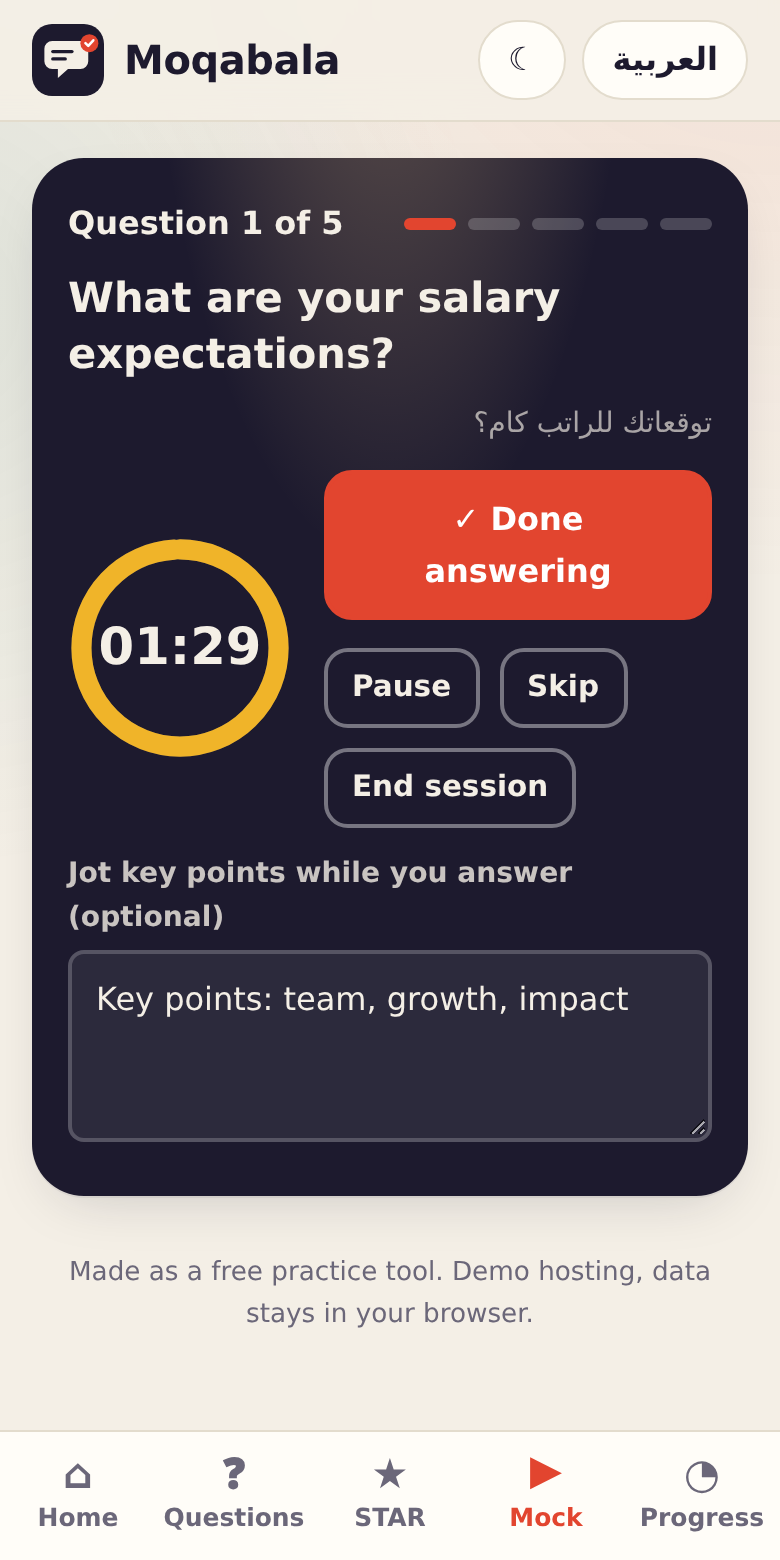
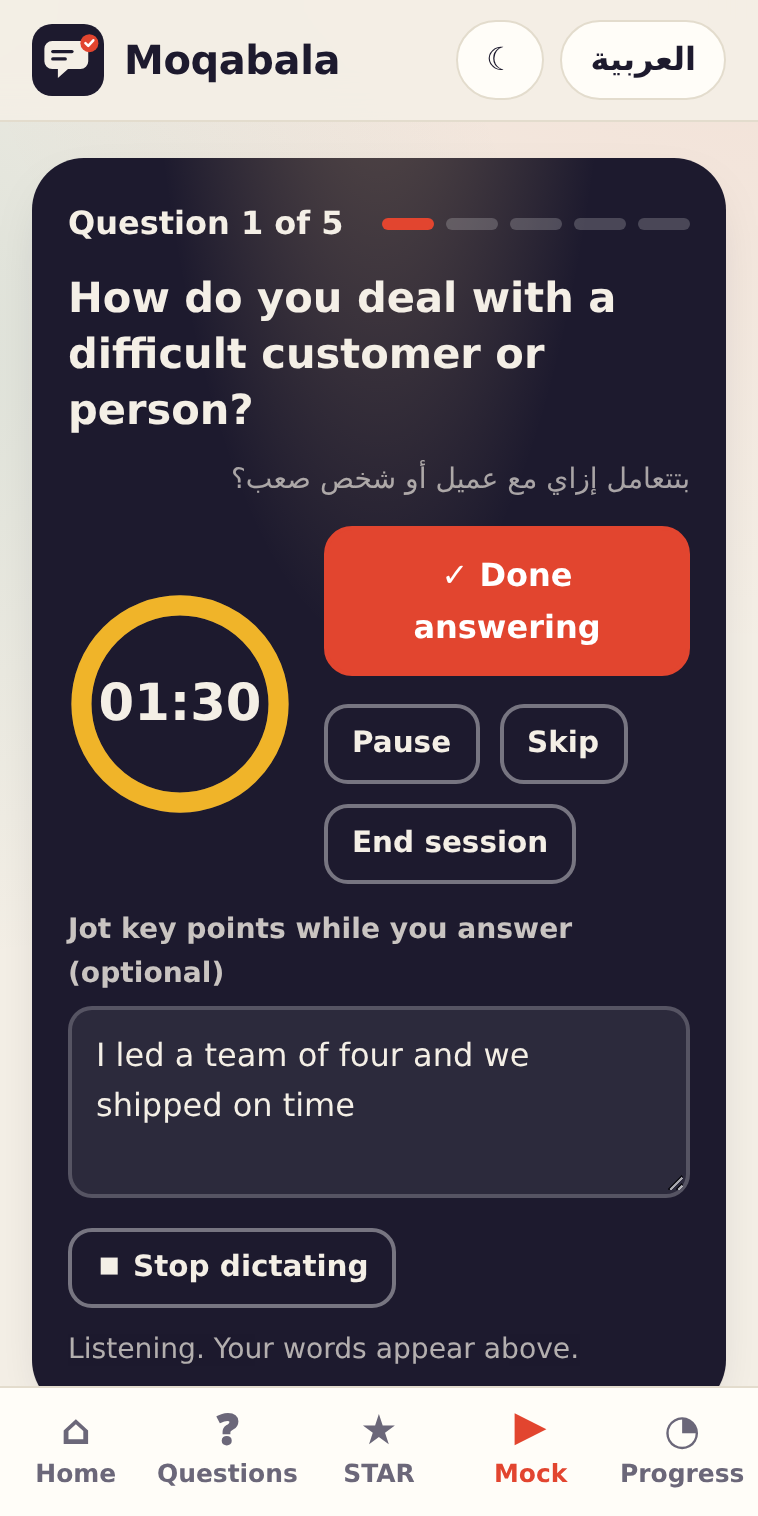
Optional dictation in the mock interview (Chrome/Edge speech recognition), tests, README

diff --git a/js/app.js b/js/app.js
@@ -53,6 +53,7 @@
     }).join('');
   }
   function render() {
+    if (dict.rec && !(ui.run && ui.run.phase === 'answer' && !ui.run.finished)) stopDictate();
     applyShell();
     var r = route(), app = $('#app');
     if (r !== 'mock' && ui.run) stopRun();
@@ -250,7 +251,7 @@
       '<div class="stack grow">' + (r.phase === 'prep' ? '<button class="btn primary" data-act="startnow">' + esc(t('start_now')) + '</button>' :
         '<button class="btn primary" data-act="doneans">✓ ' + esc(t('done_ans')) + '</button>') +
       '<div class="row"><button class="btn sm" data-act="pause">' + esc(r.paused ? t('resume') : t('pause')) + '</button><button class="btn sm" data-act="skipq">' + esc(t('skip')) + '</button><button class="btn sm" data-act="quit">' + esc(t('quit')) + '</button></div></div></div>' +
-      (r.phase === 'answer' ? '<label for="live" class="small" style="opacity:.8">' + esc(t('notes_live')) + '</label><textarea id="live">' + esc(it.note) + '</textarea>' : '') + '</section>';
+      (r.phase === 'answer' ? '<label for="live" class="small" style="opacity:.8">' + esc(t('notes_live')) + '</label><textarea id="live">' + esc(it.note) + '</textarea>' + (SR ? '<div class="row" style="margin-top:8px"><button class="btn sm" data-act="dictate" id="dictbtn" aria-pressed="' + !!dict.rec + '">' + (dict.rec ? '⏹ ' + esc(t('dict_stop')) : '🎤 ' + esc(t('dict_start'))) + '</button><span class="small" id="dictst" style="opacity:.7">' + esc(dict.rec ? t('dict_on') : t('dict_hint')) + '</span></div>' : '') : '') + '</section>';
   }
   function finishRun() {
     var r = ui.run, today = L.dayKey();
@@ -319,7 +320,8 @@
       case 'set': ui.mock[el.dataset.k] = Number(el.dataset.v); render(); break;
       case 'mstart': if (poolSize()) startRun(); break;
       case 'startnow': r.left = 0; r.deadline = 0; r.startedAt = Date.now(); r.phase = 'answer'; r.total = r.limit; r.left = r.limit; r.deadline = Date.now() + r.limit * 1000; render(); break;
-      case 'doneans': saveLive(); toRate(Math.min(r.limit, Math.round(r.limit - r.left))); break;
+      case 'dictate': if (dict.rec) stopDictate(); else startDictate(); render(); break;
+      case 'doneans': stopDictate(); saveLive(); toRate(Math.min(r.limit, Math.round(r.limit - r.left))); break;
       case 'pause': saveLive(); if (r.paused) { r.deadline = Date.now() + r.left * 1000; r.paused = false; } else { r.left = Math.max(0, Math.ceil((r.deadline - Date.now()) / 1000)); r.paused = true; } render(); break;
       case 'skipq': r.items[r.i].skipped = true; clearInterval(r.timer); advance(); break;
       case 'quit': if (confirm(t('confirm_quit'))) { stopRun(); render(); } break;
@@ -330,6 +332,22 @@
       case 'reset': if (confirm(t('confirm_reset'))) { var lang = S.lang; S = fresh(); S.lang = lang; save(); render(); } break;
     }
   });
+  /* optional dictation: the browser's speech recognition turns your spoken answer into the notes box, so words and fillers are counted on what you said */
+  var SR = typeof window !== 'undefined' && (window.SpeechRecognition || window.webkitSpeechRecognition);
+  var dict = { rec: null };
+  function stopDictate() { if (dict.rec) { var r = dict.rec; dict.rec = null; try { r.onend = null; r.stop(); } catch (e) { } } }
+  function startDictate() {
+    if (!SR || dict.rec) return;
+    var rec = new SR(); rec.lang = S.lang === 'ar' ? 'ar-EG' : 'en-US'; rec.continuous = true; rec.interimResults = false;
+    rec.onresult = function (ev) {
+      var ta = $('#live'); if (!ta || !ui.run) return; var add = '';
+      for (var k = ev.resultIndex; k < ev.results.length; k++) if (ev.results[k].isFinal) add += ev.results[k][0].transcript + ' ';
+      if (add) { ta.value = (ta.value ? ta.value.replace(/\s*$/, ' ') : '') + add.trim() + ' '; ui.run.items[ui.run.i].note = ta.value; }
+    };
+    rec.onerror = function (ev) { var st = $('#dictst'); if (st) st.textContent = ev.error === 'not-allowed' ? t('dict_denied') : t('dict_err'); if (ev.error === 'not-allowed' || ev.error === 'service-not-allowed') { dict.rec = null; var b = $('#dictbtn'); if (b) b.textContent = '🎤 ' + t('dict_start'); } };
+    rec.onend = function () { if (dict.rec === rec) { try { rec.start(); } catch (e) { dict.rec = null; } } };
+    dict.rec = rec; try { rec.start(); } catch (e) { dict.rec = null; }
+  }
   function saveLive() { var ta = $('#live'); if (ta && ui.run) ui.run.items[ui.run.i].note = ta.value; }
   function advance() {
     var r = ui.run; if (r.i >= r.items.length - 1) { finishRun(); return; }

diff --git a/tests/dictate.js b/tests/dictate.js
@@ -1,0 +1,34 @@
+/* Dictation check with a fake SpeechRecognition (the real one needs a microphone and Google's service).
+   Usage: node tests/dictate.js [baseUrl]   Needs puppeteer-core. */
+const path = require('path'), http = require('http'), fs = require('fs');
+const puppeteer = require(process.env.PUPPETEER_PATH || 'puppeteer-core');
+const sleep = (ms) => new Promise((r) => setTimeout(r, ms));
+function serve(dir) { return new Promise((res) => { const s = http.createServer((q, r) => { let f = path.join(dir, decodeURIComponent(q.url.split('?')[0])); if (f.endsWith('/')) f += 'index.html'; fs.readFile(f, (e, d) => { if (e) { r.statusCode = 404; r.end(); } else { r.setHeader('Content-Type', { '.html': 'text/html', '.js': 'text/javascript', '.css': 'text/css', '.svg': 'image/svg+xml', '.webmanifest': 'application/json' }[path.extname(f)] || 'application/octet-stream'); r.end(d); } }); }).listen(0, () => res(s)); }); }
+(async () => {
+  let srv, base = process.argv[2];
+  if (!base) { srv = await serve(path.join(__dirname, '..')); base = 'http://localhost:' + srv.address().port + '/'; }
+  const browser = await puppeteer.launch({ executablePath: process.env.CHROME || '/usr/bin/google-chrome', args: ['--no-sandbox'], headless: 'new' });
+  const p = await browser.newPage(); await p.setViewport({ width: 390, height: 844 });
+  const errors = []; p.on('pageerror', (e) => errors.push(e.message));
+  await p.evaluateOnNewDocument(() => {
+    window.__rec = null;
+    const Fake = function () { window.__rec = this; this.start = () => { this.started = true; }; this.stop = () => { this.started = false; }; };
+    window.webkitSpeechRecognition = Fake; window.SpeechRecognition = Fake;
+  });
+  let bad = 0; const ok = (c, n) => { console.log((c ? '  ok   ' : '  FAIL ') + n); if (!c) bad++; };
+  await p.goto(base + '#/mock'); await p.waitForSelector('[data-act=mstart]');
+  await p.evaluate(() => document.querySelector('[data-act=mstart]').click()); await sleep(300);
+  await p.evaluate(() => document.querySelector('[data-act=startnow]').click()); await sleep(300);
+  ok(await p.evaluate(() => !!document.getElementById('dictbtn')), 'dictate button shows when the browser supports speech recognition');
+  await p.evaluate(() => document.getElementById('dictbtn').click()); await sleep(200);
+  ok(await p.evaluate(() => window.__rec && window.__rec.started && window.__rec.lang === 'en-US'), 'recognition started in English');
+  await p.evaluate(() => { const e = { resultIndex: 0, results: [Object.assign([{ transcript: 'um I led the team' }], { isFinal: true })] }; window.__rec.onresult(e); });
+  const v = await p.evaluate(() => document.getElementById('live').value);
+  ok(/um I led the team/.test(v), 'spoken words land in the answer box: ' + v);
+  await p.evaluate(() => document.querySelector('[data-act=doneans]').click()); await sleep(300);
+  ok(await p.evaluate(() => window.__rec.started === false), 'dictation stops when the answer ends');
+  const t = await p.evaluate(() => document.body.innerText);
+  ok(/5 words/.test(t) && /1 filler/i.test(t.replace(/fillers/i, 'filler')) , 'word and filler count use the dictated text: ' + (t.match(/\d+ words[^\n]*/) || [''])[0]);
+  ok(errors.length === 0, 'no page errors ' + errors.join('|'));
+  await browser.close(); if (srv) srv.close(); console.log(bad ? bad + ' FAILED' : 'DICTATE PASS'); process.exit(bad ? 1 : 0);
+})();

diff --git a/js/i18n.js b/js/i18n.js
@@ -34,7 +34,7 @@
       m_start: 'Start', m_pool: 'questions available', m_none: 'No questions in the selected topics.',
       q_of: 'Question', of: 'of', get_ready: 'Get ready', start_now: 'Start now', time_left: 'left',
       pause: 'Pause', resume: 'Resume', done_ans: 'Done answering', skip: 'Skip', quit: 'End session', confirm_quit: 'End this session? Nothing will be saved.',
-      notes_live: 'Jot key points while you answer (optional)', time_up: 'Time is up', used: 'Time used',
+      notes_live: 'Jot key points while you answer (optional)', dict_start: 'Dictate my answer', dict_stop: 'Stop dictating', dict_on: 'Listening. Your words appear above.', dict_hint: 'Speak your answer and it is typed for you.', dict_denied: 'Microphone blocked. Allow it in the browser, or type.', dict_err: 'Could not hear you. Try again or type.', time_up: 'Time is up', used: 'Time used',
       rate_h: 'How did it go?', rate_p: 'Rate your answer', c_star: 'I told a clear story', c_num: 'I gave a specific example or number', c_short: 'I stayed within the time', c_conf: 'I sounded confident',
       next_q: 'Next question', finish: 'See results', fillers: 'filler words in notes',
       res_h: 'Session results', score: 'Score', avg_time: 'Average time used', answered: 'answered', skipped: 'skipped',
@@ -80,7 +80,7 @@
       m_start: 'ابدأ', m_pool: 'سؤال متاح', m_none: 'مفيش أسئلة في المواضيع المختارة.',
       q_of: 'سؤال', of: 'من', get_ready: 'استعد', start_now: 'ابدأ دلوقتي', time_left: 'متبقي',
       pause: 'إيقاف مؤقت', resume: 'كمّل', done_ans: 'خلصت إجابتي', skip: 'تخطّي', quit: 'إنهاء الجلسة', confirm_quit: 'تنهي الجلسة؟ مش هيتحفظ حاجة.',
-      notes_live: 'اكتب نقاط سريعة وإنت بتجاوب (اختياري)', time_up: 'الوقت خلص', used: 'الوقت المستخدم',
+      notes_live: 'اكتب نقاط سريعة وإنت بتجاوب (اختياري)', dict_start: 'اتكلم وأنا أكتب', dict_stop: 'وقّف الكتابة', dict_on: 'بسمعك. كلامك بيظهر فوق.', dict_hint: 'جاوب بصوتك وهيتكتب لوحده.', dict_denied: 'الميكروفون مقفول. اسمح بيه من المتصفح أو اكتب.', dict_err: 'ما سمعتش كويس. جرّب تاني أو اكتب.', time_up: 'الوقت خلص', used: 'الوقت المستخدم',
       rate_h: 'عملت إيه؟', rate_p: 'قيّم إجابتك', c_star: 'حكيت قصة واضحة', c_num: 'قلت مثال محدد أو رقم', c_short: 'التزمت بالوقت', c_conf: 'كنت واثق',
       next_q: 'السؤال التالي', finish: 'شوف النتيجة', fillers: 'كلمة حشو في ملاحظاتك',
       res_h: 'نتيجة الجلسة', score: 'الدرجة', avg_time: 'متوسط الوقت المستخدم', answered: 'اتجاوب', skipped: 'اتخطّى',

diff --git a/README.md b/README.md
@@ -17,7 +17,7 @@ Most people fail interviews on the same three things: they have no clear story r
 
 1. Pick from **67 real interview questions** in 10 topics, each with a short tip and an Arabic or English version side by side.
 2. Turn your experience into a **STAR answer** (Situation, Task, Action, Result) and see whether it is complete, balanced and has a number in the result.
-3. Run a **timed mock interview**: random questions, a real countdown, then rate yourself honestly. Watch your score climb over days.
+3. Run a **timed mock interview**: random questions, a real countdown, then rate yourself honestly. Watch your score climb over days. In Chrome or Edge you can dictate your spoken answer into the notes box.
 
 ## Features
 
@@ -56,6 +56,7 @@ python3 -m http.server 8080   # or any static server, then open http://localhost
 npm install          # only needed for the browser test (playwright-core)
 npm test             # 16 unit tests for the logic and data integrity
 npm run e2e -- http://localhost:8080/     # 38 checks in real Chrome
+npm run dictate                            # dictation with a fake speech engine
 ```
 
 The browser test clicks through language and RTL, the checklist, search and filters, notes, custom questions, the whole STAR flow including clipboard and download, a full timed mock (pause, skip, time-up, scoring), export, import, reset, offline cache registration, and checks for horizontal overflow at 390 px and for console errors. It was also run against the live URL.
@@ -63,7 +64,7 @@ The browser test clicks through language and RTL, the checklist, search and filt
 ## Honest limits
 
 - **Your data lives in one browser.** It is `localStorage`: clearing site data, using another browser or a private window means a fresh start. Use Export backup to move it.
-- **No speech analysis.** The timer and filler word count work on what you type in the notes box. The app does not record or listen to your voice.
+- **Dictation is optional and browser dependent.** In Chrome and Edge the Dictate button turns your spoken answer into text (Arabic or English, matching the app language) so the word and filler counts use what you said. The browser sends the audio to its own speech service to do this, and Firefox has no support, so the button is hidden there. The app itself never records or stores audio, and it does not judge delivery, pace or pronunciation.
 - **Scores are self rated.** The score is your own rating plus your checklist, not an AI judgement.
 - **The question bank is general.** It is not tuned to a specific company or field, and the tips are guidance, not guarantees.
 - **GitHub Pages is a demo host.** Fine for trying the app. If you want it for a school, a club or a business, host it where you control the domain.
